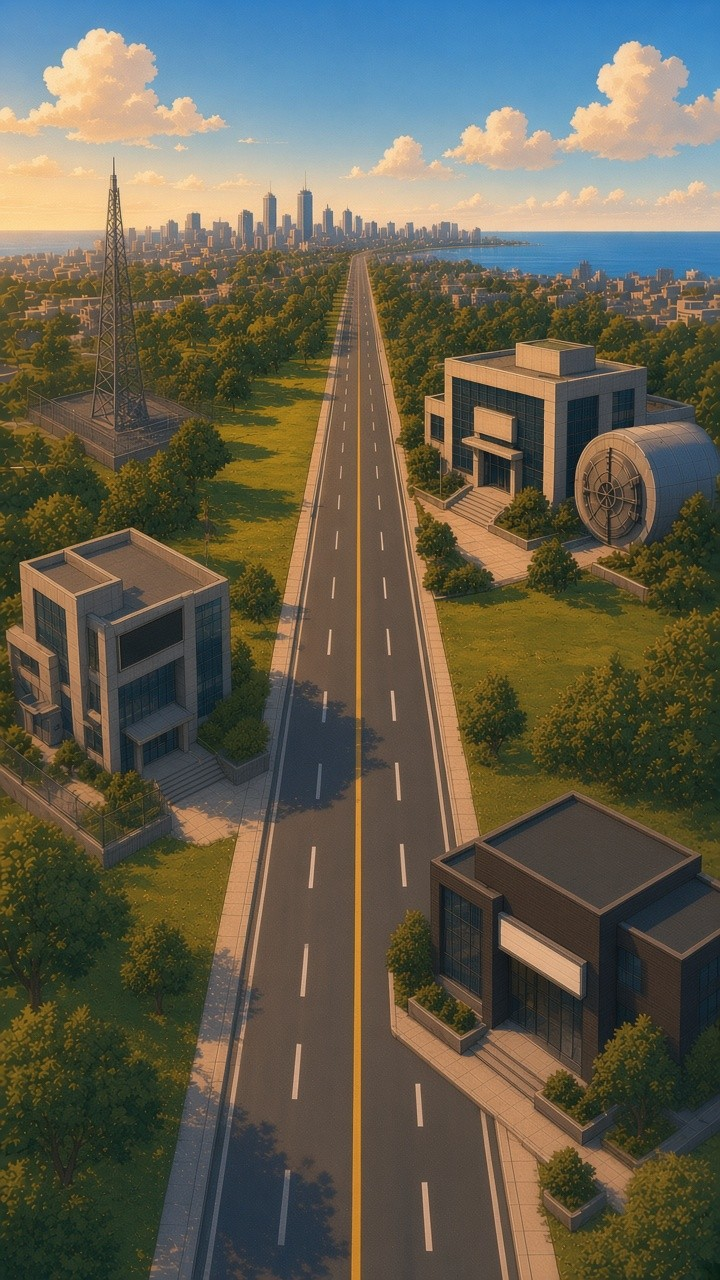
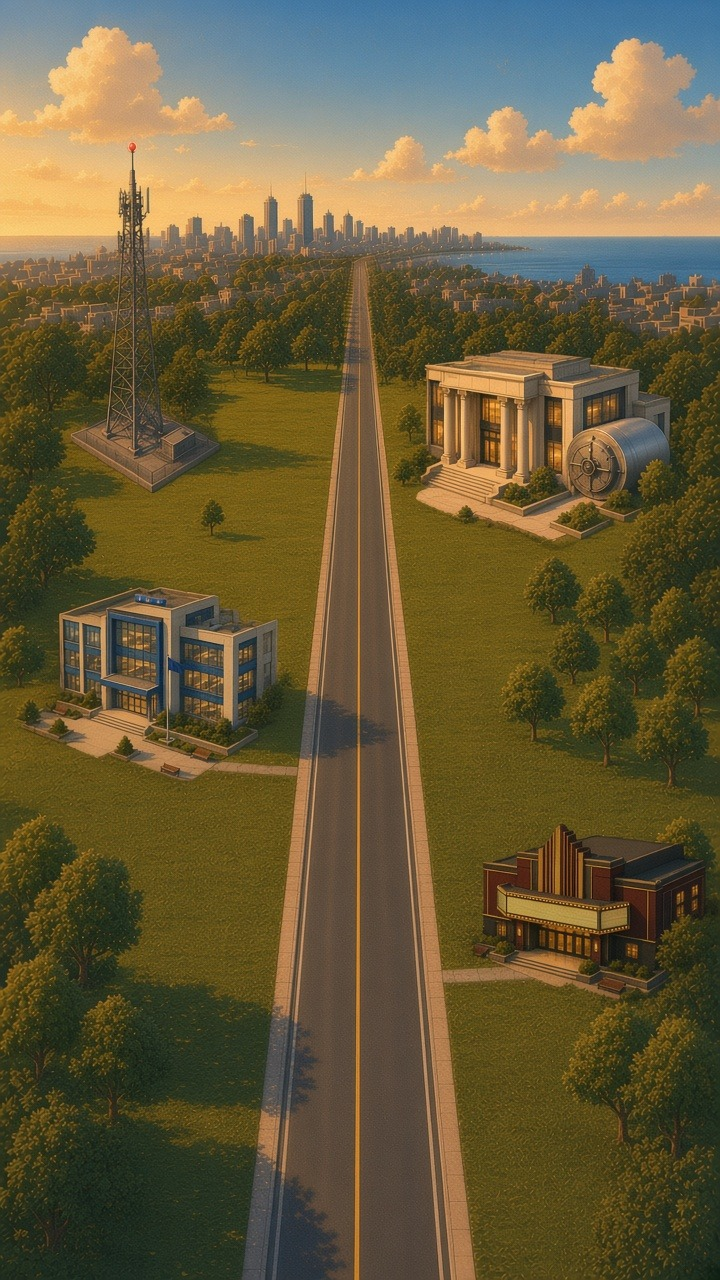
Publish mobile village art v3.
Replace the live mobile town illustration with mobile-new-v3,
update the mobile beacon and hotspot boxes to match, and keep
the previous v6 mobile art as a backup. Desktop art is unchanged.

diff --git a/styles.css b/styles.css
@@ -656,13 +656,13 @@ tr.fresh td{background:rgba(182,255,59,.05)}
   .hl-spot.is-on::after{opacity:.88}
   .hl-town-stage{overflow:visible}
   .hl-town-art img{width:100%;height:auto;aspect-ratio:auto;object-fit:unset}
-  .hl-beacon,.hl-beacon-glow{left:15.69%;top:12.20%}
+  .hl-beacon,.hl-beacon-glow{left:18.33%;top:11.44%}
   .hl-beacon{width:1.6%}
   .hl-beacon-glow{width:8.5%}
-  .hl-spot[data-spot="bank"]{left:60%;top:25.5%;width:40%;height:19.5%}
-  .hl-spot[data-spot="pd"]{left:0;top:40%;width:33%;height:24%}
-  .hl-spot[data-spot="cine"]{left:60%;top:60.5%;width:40%;height:26.5%}
-  .hl-spot[data-spot="tower"]{left:6%;top:10.8%;width:19%;height:22%}
+  .hl-spot[data-spot="bank"]{left:57.5%;top:26.5%;width:37.5%;height:15.5%}
+  .hl-spot[data-spot="pd"]{left:3%;top:45%;width:36%;height:15.5%}
+  .hl-spot[data-spot="cine"]{left:65%;top:63%;width:33.5%;height:14.5%}
+  .hl-spot[data-spot="tower"]{left:8.5%;top:10.5%;width:22.5%;height:27.5%}
   .hl-spot[data-spot="bank"]::after{inset:3% 3% 6% 6%;border-radius:8% / 10%}
   .hl-spot[data-spot="pd"]::after{inset:4% 6% 6% 4%;border-radius:8% / 10%}
   .hl-spot[data-spot="cine"]::after{inset:3% 3% 6% 6%;border-radius:6% / 8%}
